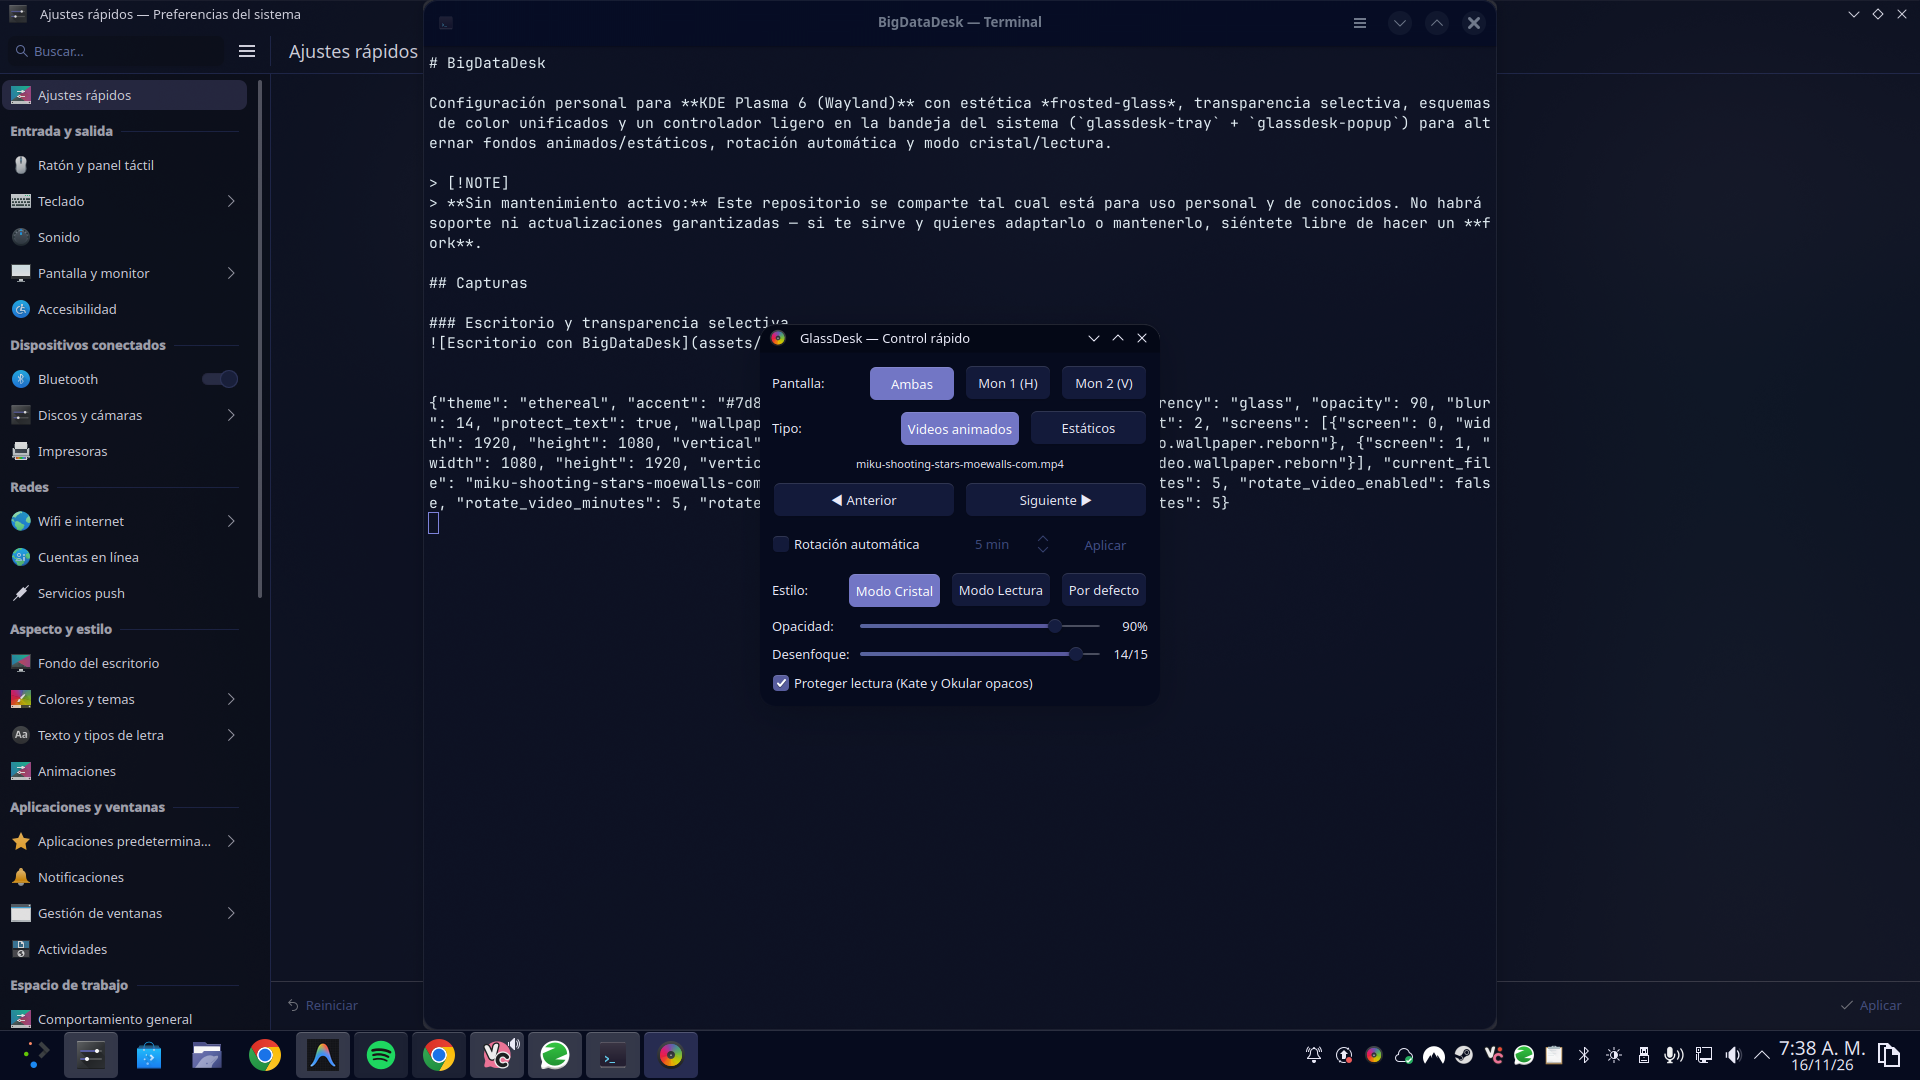
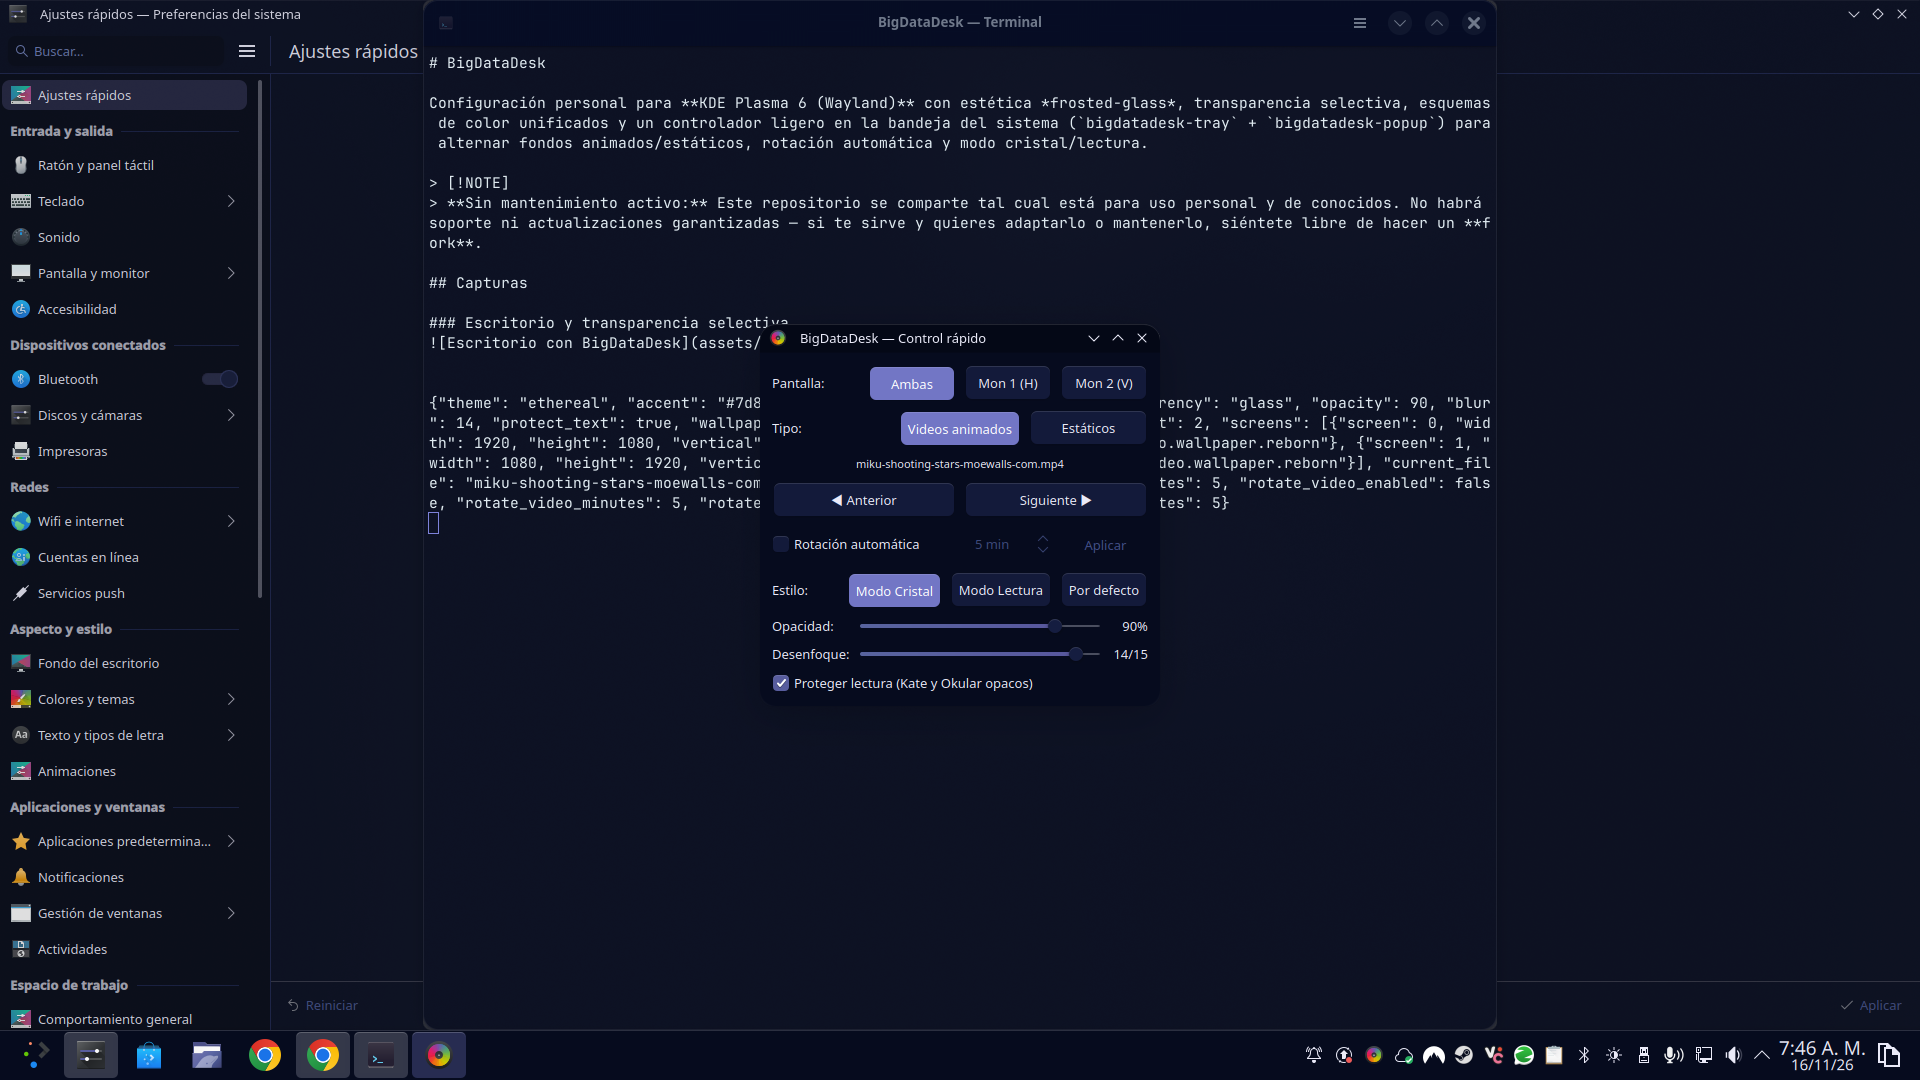
Rebrand all binaries, configs, schemes, and screenshots to BigDataDesk

diff --git a/src/bigdatadesk-tray/src/main.rs b/src/bigdatadesk-tray/src/main.rs
@@ -53,7 +53,7 @@ struct DeskState {
     screen_count: usize,
 }
 
-struct GlassDeskTray {
+struct BigDataDeskTray {
     bin_path: String,
     popup_path: String,
     video_dir: String,
@@ -150,7 +150,7 @@ fn acquire_single_instance() -> Option<UnixListener> {
     let sock_dir = env::var("XDG_RUNTIME_DIR")
         .map(PathBuf::from)
         .unwrap_or_else(|_| PathBuf::from("/tmp"));
-    let sock_path = sock_dir.join("glassdesk-tray.sock");
+    let sock_path = sock_dir.join("bigdatadesk-tray.sock");
 
     if UnixStream::connect(&sock_path).is_ok() {
         return None;
@@ -159,9 +159,9 @@ fn acquire_single_instance() -> Option<UnixListener> {
     UnixListener::bind(&sock_path).ok()
 }
 
-impl ksni::Tray for GlassDeskTray {
+impl ksni::Tray for BigDataDeskTray {
     fn id(&self) -> String {
-        "glassdesk-tray".into()
+        "bigdatadesk-tray".into()
     }
 
     fn icon_name(&self) -> String {
@@ -169,7 +169,7 @@ impl ksni::Tray for GlassDeskTray {
     }
 
     fn title(&self) -> String {
-        "GlassDesk".into()
+        "BigDataDesk".into()
     }
 
     fn activate(&mut self, _x: i32, _y: i32) {
@@ -189,7 +189,7 @@ impl ksni::Tray for GlassDeskTray {
             "Estáticos"
         };
         ksni::ToolTip {
-            title: "GlassDesk".into(),
+            title: "BigDataDesk".into(),
             description: format!("{} · {} · {}", theme_label, transp_label, wp_label),
             icon_name: "preferences-desktop-color".into(),
             icon_pixmap: vec![],
@@ -418,12 +418,12 @@ fn main() {
     };
 
     let home = env::var("HOME").unwrap_or_else(|_| "/tmp".into());
-    let bin_path = format!("{}/.local/bin/glassdesk", home);
-    let popup_path = format!("{}/.local/bin/glassdesk-popup", home);
+    let bin_path = format!("{}/.local/bin/bigdatadesk", home);
+    let popup_path = format!("{}/.local/bin/bigdatadesk-popup", home);
     let video_dir = resolve_video_dir(&home);
     let state = query_state(&bin_path);
 
-    let tray = GlassDeskTray {
+    let tray = BigDataDeskTray {
         bin_path,
         popup_path,
         video_dir,

diff --git a/patches/patch_smart_video_wallpaper.py b/patches/patch_smart_video_wallpaper.py
@@ -34,7 +34,7 @@ def main() -> int:
         txt = f.read()
 
     if "transparentApps" in txt and "isTransparentApp" in txt:
-        print("TasksModel.qml already patched for GlassDesk.")
+        print("TasksModel.qml already patched for BigDataDesk.")
         return 0
 
     if "property var appId:" not in txt:
